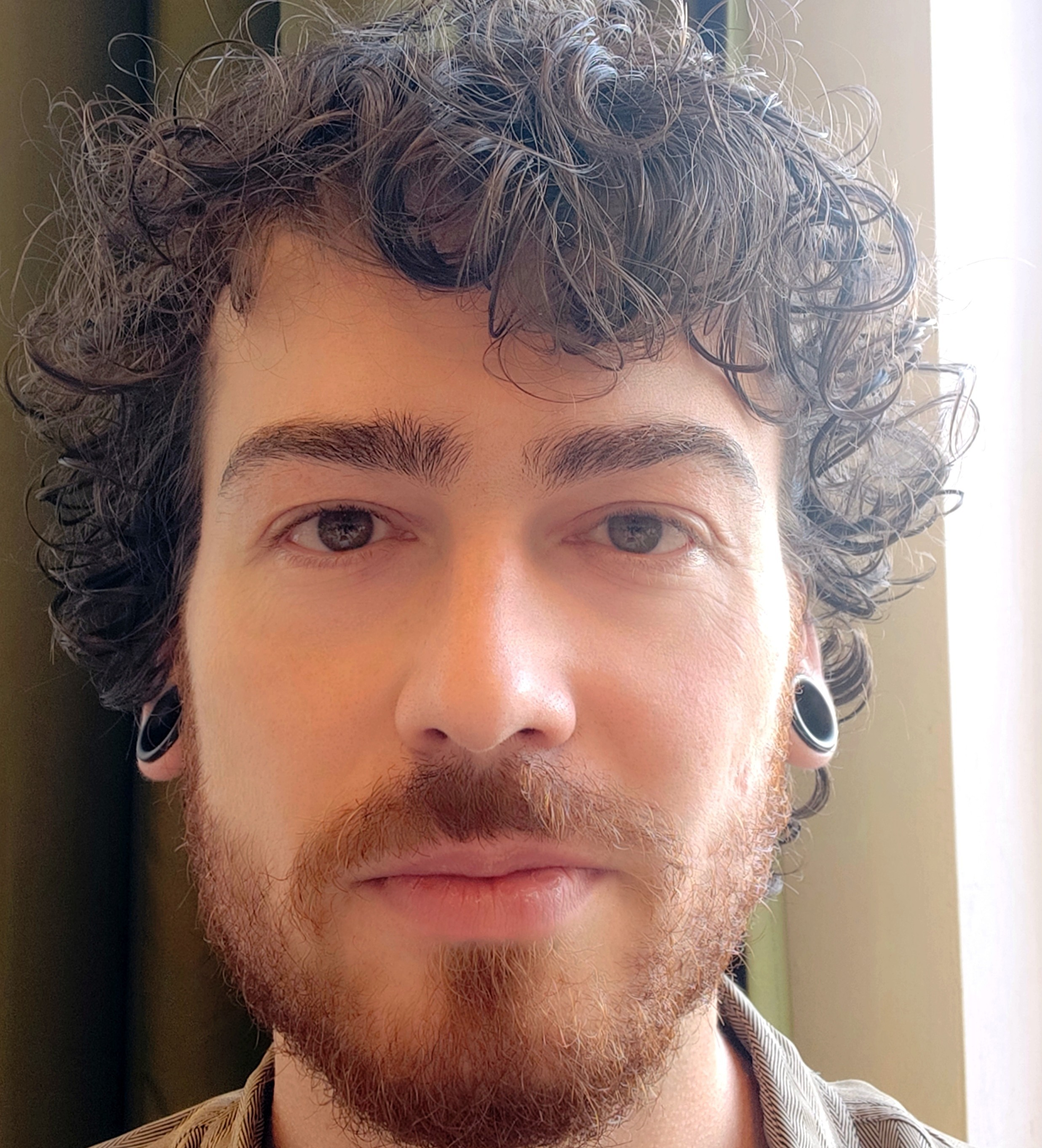
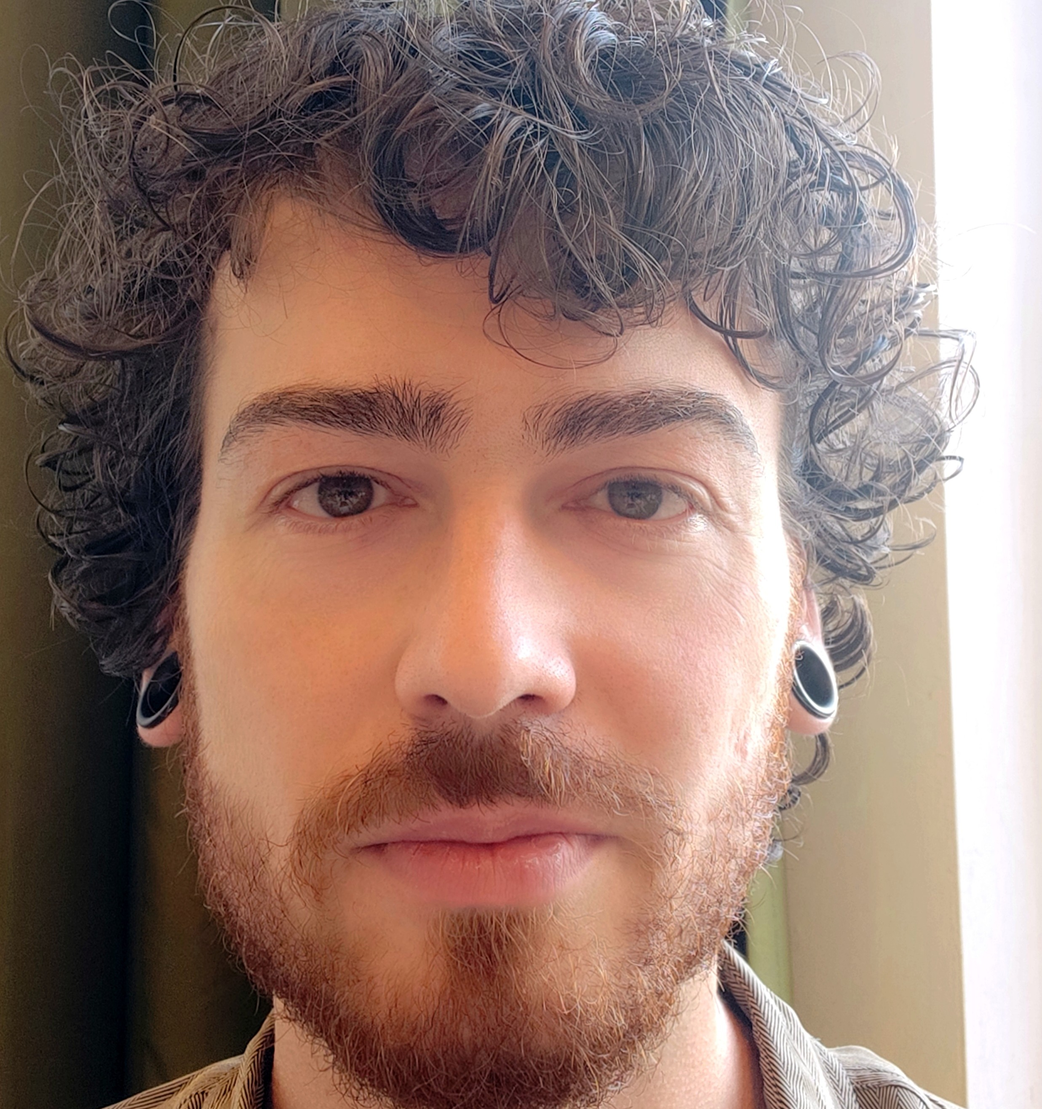
foto's sofie en gilles terug toegevoegd en kleine stijlveranderingen

diff --git a/WebsiteBOVP/styles.css b/WebsiteBOVP/styles.css
@@ -58,7 +58,7 @@ header {
 .team-container {
     display: flex;
     justify-content: center;
-    gap: 20px;
+    gap: 60px;
     margin-top: 20px;
 }
 
